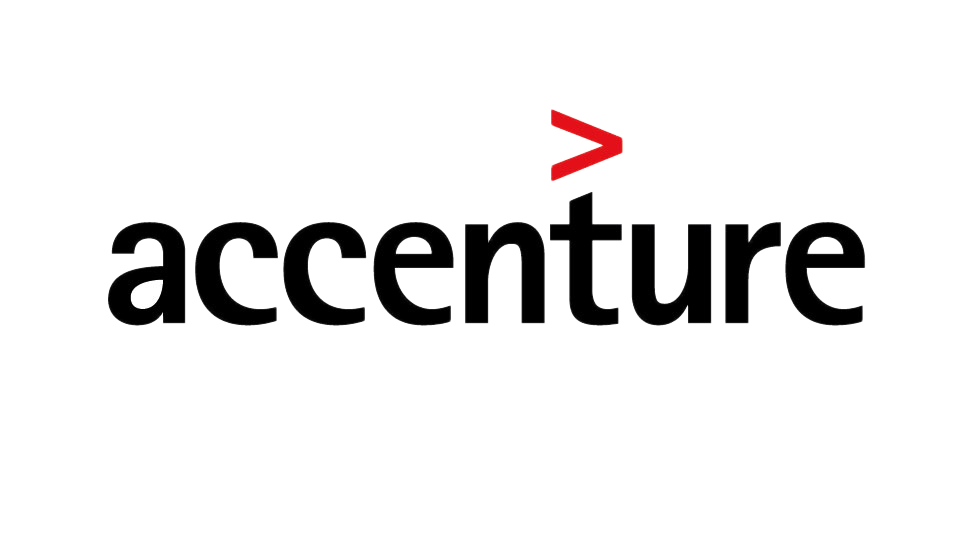
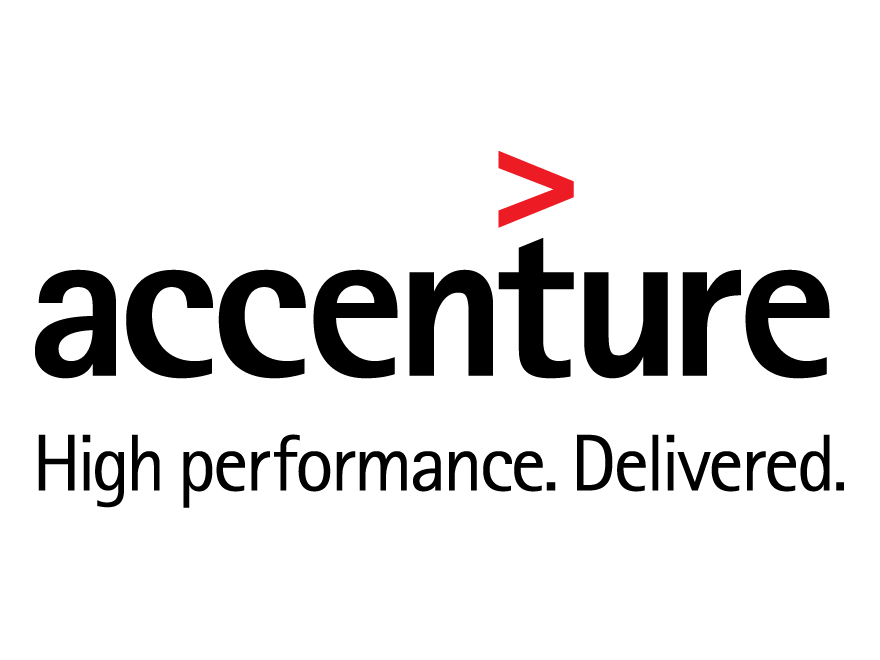
Improvements for launch
+ Recover Navbar
+ Increase exclusive logo size and fix its css naming
+ Fix typo on contacts
+ Fix footer to full english
+ Remove one target blank due to navbar recover
+ Add paragraph on speakers due to unfinished speaker section

Changed region(s): [[0.0307, 0.207, 0.9511, 0.6211], [0.0307, 0.6506, 0.9511, 0.7689], [0.5523, 0.414, 0.583, 0.4436]]

diff --git a/_includes/navbar.html b/_includes/navbar.html
@@ -23,27 +23,27 @@
           <li class="hidden">
             <a href="#page-top"></a>
           </li>
-          <li>
+          <!-- <li>
             <a class="page-scroll" href="/agenda">Agenda</a>
-          </li>
+          </li> -->
           <li>
             <a class="page-scroll" href="/speakers">Oradores</a>
           </li>
-          <li>
+          <!--<li>
             <a class="page-scroll" href="/heartbits">Hackathon</a>
           </li>
           <li>
             <a class="page-scroll" href="/challenges">Desafios</a>
-          </li>
+          </li> -->
           <li>
             <a class="page-scroll" href="/accommodation">Alojamento</a>
           </li>
-          <li>
+          <!--<li>
             <a class="page-scroll" href="http://intra.seium.org" target="_blank">IntraNet</a>
           </li>
           <li>
             <a class="page-scroll" href="http://seium16.eventbrite.pt/" target="_blank">Inscrições</a>
-          </li>
+          </li> -->
         </ul>
       </div>
   </nav>

diff --git a/_includes/contacts.html b/_includes/contacts.html
@@ -12,7 +12,7 @@
           <h5>Centro de Estudantes de Engenharia Informática </h5>
           <p> <strong>EMAIL: </strong> <a href="mailto:cesium@di.uminho.pt">cesium@di.uminho.pt </a></p>
           <p> <strong>TELEFONE: </strong> 253 604 448 </p>
-          <p> A SEI é completamente grátis é organizada por voluntários do CeSIUM </p>
+          <p> A SEI é gratuita para os participantes, sendo organizada por voluntários do CeSIUM </p>
       </div>
 
       <iframe class="center-block" id="google-map" src="https://www.google.com/maps/embed/v1/place?q=place_id:ChIJL4bubp3-JA0RIa4y7zUxqng&key=AIzaSyDh4ixf3YXb8V63gppWG_jsyy6xguk9UbQ" allowfullscreen></iframe>

diff --git a/speakers/index.html b/speakers/index.html
@@ -10,6 +10,9 @@ layout: default
     <div class="speakers-def col-md-8 col-md-offset-2">
       Durante esta semana vais ter a oportunidade de conhecer muitos oradores nacionais e internacionais reconhecidos e de empresas notorias, mas até lá, vai dando uma vista de olhos para saberes o que podes esperar desta edição.
     </div>
+    <div class="speakers-def col-md-8 col-md-offset-2">
+      Mais oradores a serem anunciados regularmente!
+    </div>
 
     {% for speaker in site.data.speakers %}
     <div id="{{ speaker.name | slugify }}" class="col-md-12 speak-list">

diff --git a/_includes/header.html b/_includes/header.html
@@ -9,7 +9,7 @@
       <div class="col-xs-6 banner-text">
         <div class="col-md-10 banner-date-locale">
           <div class="banner-date">4 a 11 Fevereiro</div>
-          <div class="banner-locale">Universidade do Minho - Departamento de Informática</div>
+          <div class="banner-locale">Universidade do Minho - CP2 B2</div>
         </div>
         <div class="col-md-10">
           <span class="banner-title">Semana da Engenharia Informática</span>

diff --git a/_includes/footer.html b/_includes/footer.html
@@ -8,7 +8,7 @@
       <a href="https://twitter.com/cesiuminho"><i class="fa fa-twitter fa-2x"></i></a>
 
 
-      <p><a href="http://2016.seium.org" target="_blank"> Previous edition</a> || <a href="/codeofconduct" target="_blank">Regulamento</a> </p> 
+      <p><a href="http://2016.seium.org" target="_blank"> Previous edition</a> || <a href="/codeofconduct" target="_blank">Code of Conduct</a> </p> 
 
     </div>
 

diff --git a/_includes/speakers.html b/_includes/speakers.html
@@ -40,7 +40,7 @@
       {% endfor %}
     </div>
     <div class="col-md-12">
-      <a href="/speakers" target="_blank">
+      <a href="/speakers">
         <button class="btn btn-info btn-sei" href="/speakers" >Sabe Mais</button>
       </a>
     </div>

diff --git a/_includes/silver.html b/_includes/silver.html
@@ -2,7 +2,7 @@
   <div class="container">
 
     <div class="section-title-container">
-      <h1 class="section-title">Silver Sponsors</h1>
+      <h1 class="section-title">Silver Sponsor</h1>
     </div>
 
     <div class="flex-wrapper">

diff --git a/_assets/stylesheets/_partners.sass b/_assets/stylesheets/_partners.sass
@@ -58,8 +58,8 @@
   margin-bottom: 20px
   img
     width: 75%
-  #subvisual-logo img
-    width: 40%
+  #accenture-logo img
+    width: 100%
 
 .partners-carousel
   margin-bottom: 50px

diff --git a/_layouts/default.html b/_layouts/default.html
@@ -5,6 +5,8 @@
   </head>
   <body id="page-top" class="index" ng-app="sei-app">
 
+    {% include navbar.html %}
+    
     {{ content }}
 
     {% include footer.html %}
